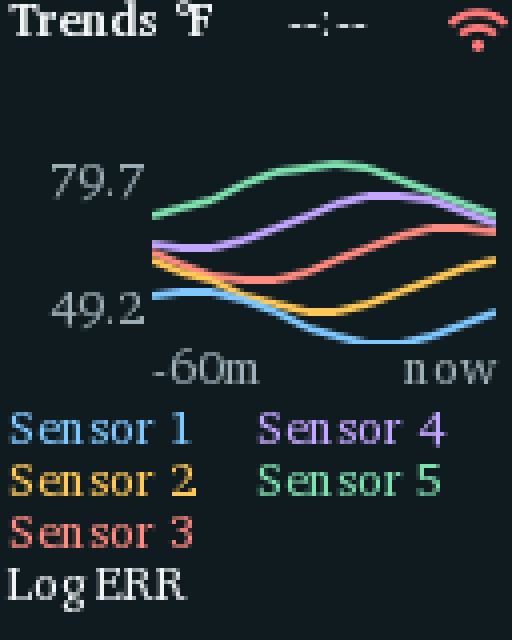
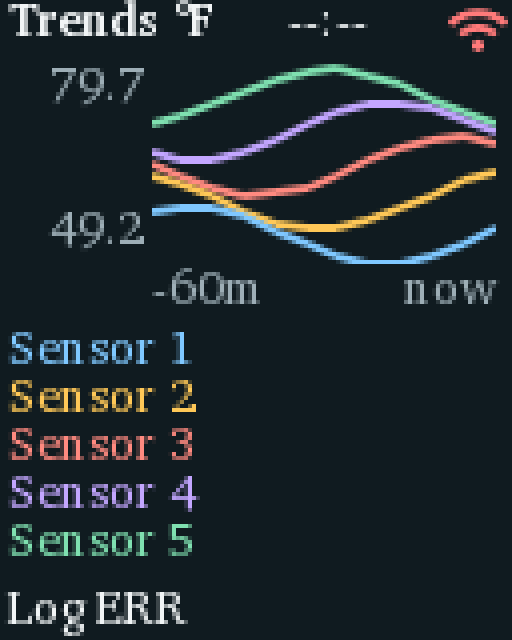
feat(lcd): Trends legend in one column; chart and axis layout adjusted

Changed region(s): [[0.0, 0.0938, 0.9688, 1.0], [0.5, 0.625, 0.7812, 0.7812], [0.0938, 0.0938, 0.2812, 0.1562]]

diff --git a/firmware/components/display_service/display_view.cpp b/firmware/components/display_service/display_view.cpp
@@ -114,8 +114,8 @@ DisplayView::DisplayView() {
                     chart = s->charts[0];
                 } else {
                     chart = lv_chart_create(s->root);
-                    lv_obj_set_pos(chart, large_trend ? 38 : 12, large_trend ? 40 : top + 21);
-                    lv_obj_set_size(chart, large_trend ? 86 : 141, large_trend ? 46 : 23);
+                    lv_obj_set_pos(chart, large_trend ? 38 : 12, large_trend ? 16 : top + 21);
+                    lv_obj_set_size(chart, large_trend ? 86 : 141, large_trend ? 50 : 23);
                     lv_obj_set_style_bg_opa(chart, LV_OPA_TRANSP, 0);
                     lv_obj_set_style_border_width(chart, 0, 0);
                     lv_obj_set_style_pad_all(chart, 0, 0);
@@ -131,14 +131,14 @@ DisplayView::DisplayView() {
                     chart, lv_color_hex(large_trend ? line_colors[i] : 0x9be3c4),
                     LV_CHART_AXIS_PRIMARY_Y);
                 if (large_trend) {
-                    // The legend: probe names in their line colours, two columns under the chart.
-                    s->legend[i] = label(s->root, i < 3 ? 2 : 64, 102 + 13 * (i < 3 ? i : i - 3),
-                                         i < 3 ? 62 : 62, &font_charter_regular_12);
+                    // The legend: probe names in their line colours, one column under the chart.
+                    s->legend[i] =
+                        label(s->root, 2, 82 + 12 * int(i), 124, &font_charter_regular_12);
                     lv_label_set_long_mode(s->legend[i], LV_LABEL_LONG_CLIP);
                     lv_obj_set_style_text_color(s->legend[i], lv_color_hex(line_colors[i]), 0);
                     if (i == 0) {
                         for (auto *axis : {&s->axis_max[0], &s->axis_min[0]}) {
-                            *axis = label(s->root, 0, axis == &s->axis_max[0] ? 40 : 72, 36,
+                            *axis = label(s->root, 0, axis == &s->axis_max[0] ? 16 : 52, 36,
                                           &font_charter_regular_12);
                             lv_obj_set_style_text_align(*axis, LV_TEXT_ALIGN_RIGHT, 0);
                             lv_obj_set_style_text_color(*axis, lv_color_hex(setup_muted), 0);
@@ -147,15 +147,18 @@ DisplayView::DisplayView() {
                 }
                 if (!large_trend || i == 0) {
                     s->no_data[i] =
-                        label(s->root, large_trend ? 4 : 12, large_trend ? 56 : top + 24,
+                        label(s->root, large_trend ? 4 : 12, large_trend ? 36 : top + 24,
                               large_trend ? 120 : 141, &font_charter_regular_12);
                     text(s->no_data[i], "NO DATA");
                 }
             }
         }
         if (compact && s == &trends_) {
-            s->axis_from = label(s->root, 38, 87, 43, &font_charter_regular_12);
-            s->axis_now = label(s->root, 81, 87, 43, &font_charter_regular_12);
+            s->axis_from = label(s->root, 38, 67, 43, &font_charter_regular_12);
+            s->axis_now = label(s->root, 81, 67, 43, &font_charter_regular_12);
+            // Five legend rows end at y=142, so the Trends footer sits below them.
+            lv_obj_set_y(s->footer, 147);
+            lv_obj_set_height(s->footer, 13);
             lv_obj_set_style_text_align(s->axis_now, LV_TEXT_ALIGN_RIGHT, 0);
             for (auto *axis : {s->axis_from, s->axis_now})
                 lv_obj_set_style_text_color(axis, lv_color_hex(setup_muted), 0);

diff --git a/firmware/display_tests/display_tests.cpp b/firmware/display_tests/display_tests.cpp
@@ -402,6 +402,19 @@ int main(int argc, char **argv) {
         for (unsigned i = 0; i < max_sensors; ++i)
             CHECK(lv_obj_is_hidden(view.trends_label(i))); // no per-probe header any more
         {
+            // The legend is one column (every entry at the same x, one below the other) and ends
+            // above the footer.
+            lv_obj_update_layout(lv_screen_active());
+            for (unsigned i = 0; i < max_sensors; ++i) {
+                CHECK(lv_obj_get_x(view.trends_legend(i)) == lv_obj_get_x(view.trends_legend(0)));
+                if (i)
+                    CHECK(lv_obj_get_y(view.trends_legend(i)) >
+                          lv_obj_get_y(view.trends_legend(i - 1)));
+            }
+            CHECK(lv_obj_get_y(view.trends_legend(4)) + lv_obj_get_height(view.trends_legend(4)) <=
+                  lv_obj_get_y(view.footer_label()));
+        }
+        {
             // Repeated renders of unchanged data while Trends is shown must not repaint.
             unsigned trend_invalidations = 0;
             lv_display_add_event_cb(
@@ -461,7 +474,7 @@ int main(int argc, char **argv) {
         }
         lv_obj_update_layout(lv_screen_active());
         auto *first_chart = view.trends_chart(0);
-        CHECK(lv_obj_get_width(first_chart) == 86 && lv_obj_get_height(first_chart) == 46);
+        CHECK(lv_obj_get_width(first_chart) == 86 && lv_obj_get_height(first_chart) == 50);
         {
             // Fonts by role: serif (Charter) for every piece of text on the Overview and Trends
             // screens; the Wi-Fi icon is a symbol and stays in Montserrat.

diff --git a/docs/USER_GUIDE.md b/docs/USER_GUIDE.md
@@ -75,7 +75,7 @@ and alarms are edited on the Sensors page.
 On the compact 1.8-inch LCD, Trends draws every probe as a line of its own colour on one graph
 with a shared scale: the highest and lowest value are printed at the left, the time span
 (`-60m` to `now`, following the lookback setting) under it, and the unit in the title. Under the
-graph a legend names each colour (sky blue, amber, coral, lilac, mint, in probe order). A probe with
+graph a legend, one name per line in its line's colour (sky blue, amber, coral, lilac, mint, in probe order),. A probe with
 no history yet is still listed in its colour but has no line. With only the Overview and Trends screens, nothing
 rotates any more.
 
